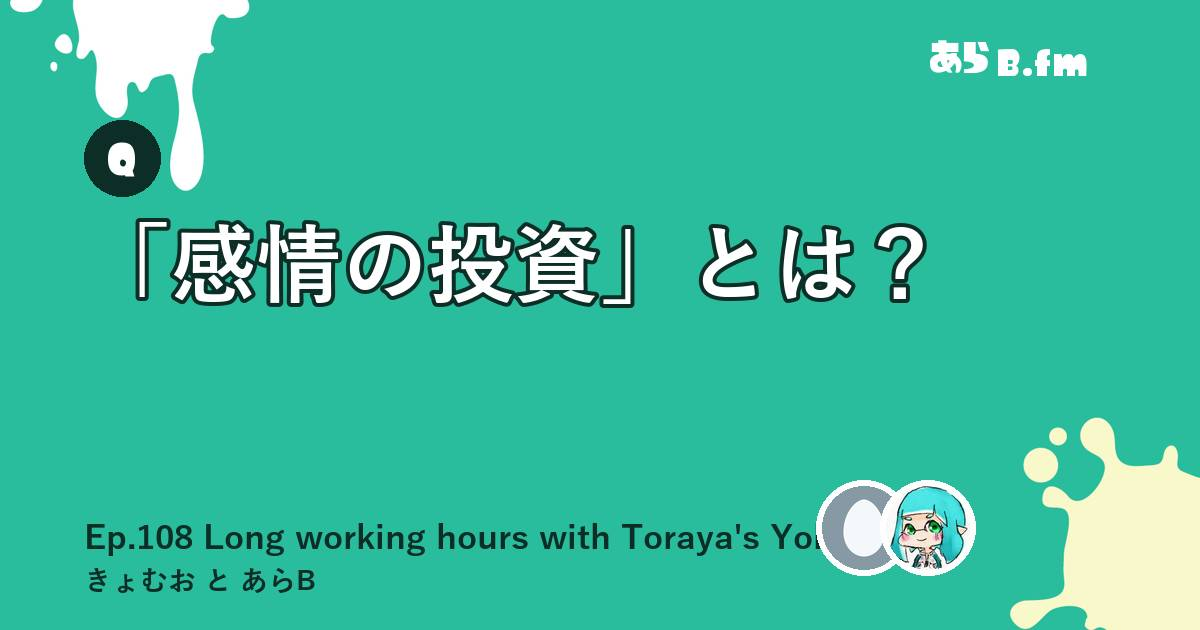
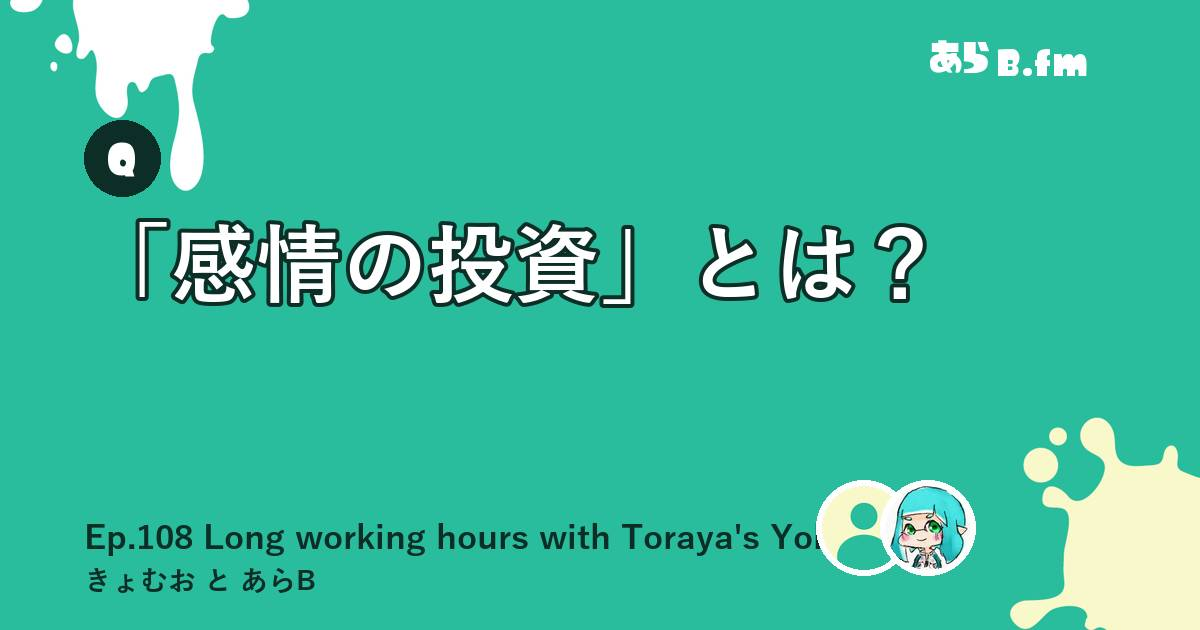
Lighter home hero, folded question list, aligned headings and larger tap targets
- The home hero drops its theme shortcuts: the theme map right below lists
  them, and without them search, the feed and today's three questions lead.
- An episode page shows its first ten questions and folds the rest behind
  "残りN問を見る" (Ep.166 lists 50); without JavaScript all of them show.
- Section headings' side links sit level with the heading, and the follow
  buttons under the latest episode's player get room of their own.
- すこ, ワタナベ and きょむお, who have no face picture, share a brand-colored
  placeholder (images/actors/noface.png) instead of a black disc and the
  old Twitter egg; their episodes' captions and share images follow.
- "▶ ここから聴く" and the chapter times are 26px tall (were 20px), so they
  can be tapped on a phone.

Changed region(s): [[0.6783, 0.754, 0.74, 0.9048]]

diff --git a/js/episode-chapters.js b/js/episode-chapters.js
@@ -6,6 +6,8 @@
   var article = document.querySelector('.article .markdown');
   if (!article) return;
 
+  // How many of the episode's questions show before the rest fold away.
+  var QUESTIONS_SHOWN = 10;
   var player = document.getElementById('episode-player');
   var listenBase = player ? player.getAttribute('data-listen') : null;
   var partCount = document.querySelectorAll('.episode-player-part').length;
@@ -136,6 +138,25 @@
     allQuestions.addEventListener('click', function (event) {
       if (event.target.closest('a')) track('episode_play', { episode: episodeSlug, kind: 'all_questions' });
     });
+    // A long episode answers 50 questions or more, which repeat the chapters above at length: show the first
+    // ones and fold the rest behind a button. Without JavaScript the whole list shows.
+    var rest = Array.prototype.slice.call(allQuestions.children, QUESTIONS_SHOWN);
+    if (rest.length > 2) {
+      rest.forEach(function (item) { item.hidden = true; });
+      var more = document.createElement('button');
+      more.type = 'button';
+      more.className = 'ep-all-questions-more';
+      more.textContent = '▶ 残り' + rest.length + '問を見る';
+      more.addEventListener('click', function () {
+        rest.forEach(function (item) { item.hidden = false; });
+        more.remove();
+        // Keyboard users land on the first question that was folded away.
+        var first = rest[0].querySelector('a');
+        if (first) first.focus();
+        track('episode_all_questions_expand', { episode: episodeSlug, count: rest.length });
+      });
+      allQuestions.parentNode.appendChild(more);
+    }
   }
 
   // Older links open this page at a moment (?t=, ?p= the 1-based audio part, ?q= the question's 1-based

diff --git a/css/blocks/_theme.scss b/css/blocks/_theme.scss
@@ -77,6 +77,8 @@ body { background-color: var(--c-tint); color: var(--c-ink); }
   background: var(--c-tint);
   border-radius: 999px;
   font-weight: bold;
+  // Level with the heading's text, not with the bottom of its margin.
+  margin-bottom: 12px;
   padding: 4px 14px;
 }
 
@@ -535,7 +537,20 @@ body { background-color: var(--c-tint); color: var(--c-ink); }
   &:hover, &:focus { color: var(--c-cream); }
 }
 
-// Every question the episode answers, with a play button each.
+// Every question the episode answers, with a play button each; past the first ten they fold behind a button
+// (js/episode-chapters.js).
+.ep-all-questions-more {
+  background: none;
+  border: 0;
+  color: var(--c-accent);
+  cursor: pointer;
+  font: inherit;
+  font-weight: bold;
+  margin-top: 10px;
+  min-height: 44px;
+  padding: 0;
+  &:hover, &:focus { color: var(--c-accent-deep); text-decoration: underline; }
+}
 .markdown .ep-all-questions {
   ol { list-style: none; margin: 0; padding: 0; }
   li { border-bottom: 1px solid var(--c-line); }
@@ -576,7 +591,8 @@ body { background-color: var(--c-tint); color: var(--c-ink); }
   font: inherit;
   font-size: .75rem;
   margin-left: 8px;
-  padding: 1px 9px;
+  // Tall enough to tap on a phone (24px or more).
+  padding: 4px 10px;
   vertical-align: .1em;
   text-decoration: none;
   &:hover, &:focus { background: var(--c-accent); color: #fff; }

diff --git a/index.html b/index.html
@@ -24,13 +24,6 @@ layout: default
     </div>
     {% comment %}Filled by js/home-today.js: "つづきから" for returning listeners and three questions of the day.{% endcomment %}
     <div class="home-today" data-home-today data-listen="{{ '/listen/' | relative_url }}" data-headlines="{{ '/listen/headlines.json' | relative_url }}" hidden></div>
-    {% comment %}Theme shortcuts: one click starts the feed on a theme; the full map is further down.{% endcomment %}
-    <div class="discovery-chips" aria-label="テーマから聴く">
-      {% for theme in site.data.themes limit:8 %}
-        <a href="{{ '/listen/' | relative_url }}?theme={{ theme.id }}">{{ theme.emoji }} {{ theme.label }}<span>{{ theme.clips.size }}</span></a>
-      {% endfor %}
-      <a href="#theme-map-heading">すべてのテーマ ↓</a>
-    </div>
   </section>
 
   <section class="home-latest" aria-labelledby="latest-heading">

diff --git a/css/blocks/_discovery.scss b/css/blocks/_discovery.scss
@@ -72,6 +72,8 @@
 .discovery-player { border: 0; margin-top: 18px; }
 // Spotify embeds load late (_includes/spotify-embed.html): until then a quiet panel of the player's size and shape.
 .spotify-embed { background: var(--c-tint); border: 0; border-radius: 12px; display: block; }
+// The follow buttons under the latest episode's player get room of their own instead of touching it.
+.home-latest .subscribe-links { margin-top: 16px; }
 
 .discovery-grid { display: grid; gap: 16px; grid-template-columns: repeat(3, minmax(0, 1fr)); }
 .discovery-feature {
@@ -227,7 +229,8 @@ a.ep-play { white-space: nowrap; }
   font-variant-numeric: tabular-nums;
   font-weight: bold;
   margin-right: 8px;
-  padding: 2px 10px;
+  // Tall enough to tap on a phone (24px or more).
+  padding: 5px 12px;
   text-decoration: none;
   vertical-align: .15em;
   white-space: nowrap;

diff --git a/css/blocks/_listen.scss b/css/blocks/_listen.scss
@@ -73,13 +73,6 @@
 }
 @media (prefers-reduced-motion: reduce) { .home-today-list a { transition: none; } }
 
-// Theme shortcuts in the home hero: wrap on wide screens, one swipeable row on phones.
-.home-hero .discovery-chips { display: flex; flex-wrap: wrap; gap: 8px; margin-top: 14px; width: 100%; }
-.home-hero .discovery-chips a { flex: none; white-space: nowrap; }
-@media (max-width: 599px) {
-  .home-hero .discovery-chips { flex-wrap: nowrap; overflow-x: auto; padding-bottom: 6px; scrollbar-width: none; }
-}
-
 .theme-more {
   margin-top: 14px;
   summary { color: var(--c-accent); cursor: pointer; font-weight: bold; }
